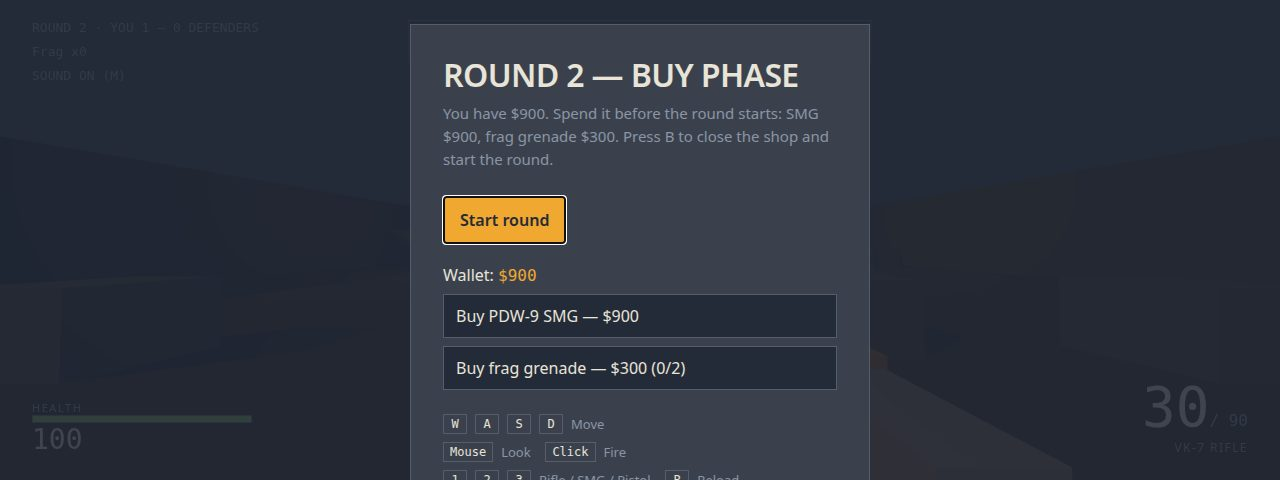
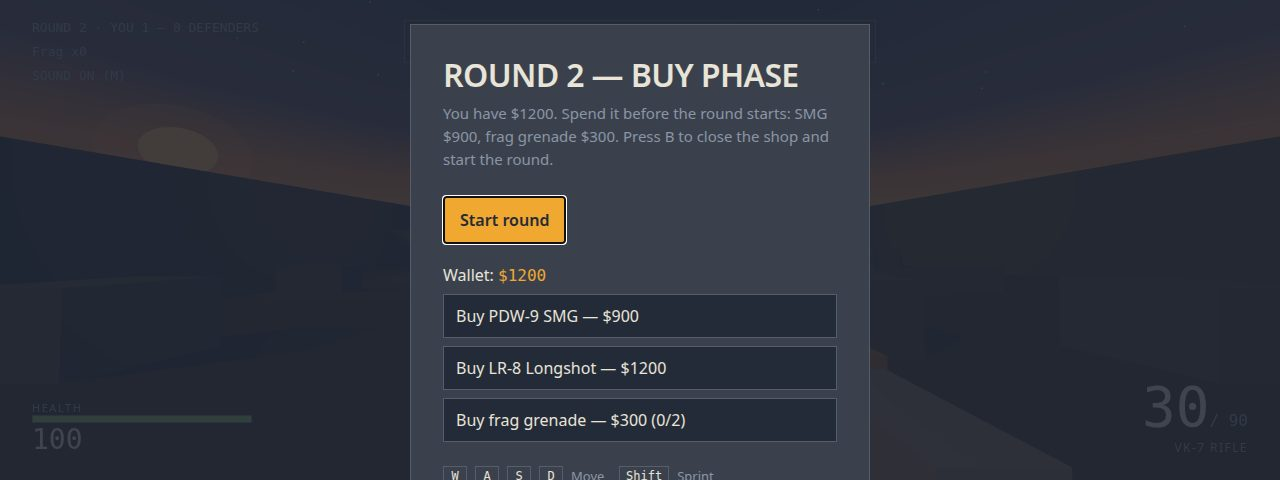
Relay Yard v3: sniper rifle, sprint, aim-down-sights, dusk sky, site labels
- LR-8 Longshot sniper ($1200, 5-round mag, one-shot headshot, 100 m
  range): a real round-2 buy choice next to the $900 SMG and $300 frag
- Sprint (Shift, x1.35 forward) and aim down sights (right-click: FOV
  74 -> 55, steadier look, spread x0.35, slower walk)
- Dusk sky dome with a sunset band, stars and a low sun over the west
  wall; floating A/B site labels readable from anywhere in the yard
- Extra cover: rust barrels and sandbag rows on the mid-north approach
- Screenshots redone: sunset cover, buy menu shows the Longshot, keys
  list names sprint / aim / the fourth weapon slot

diff --git a/game/src/world.js b/game/src/world.js
@@ -5,6 +5,7 @@
 // the bots, and a surface a bullet stops on. Plain geometry only.
 import * as THREE from 'three';
 import { PALETTE } from './palette.js';
+import { mulberry32 } from './random.js';
 
 const YARD_X = 20;
 const YARD_Z = 17;
@@ -138,6 +139,108 @@ export function createWorld(scene) {
   // A raised platform on the south wall, overlooking mid.
   box(6, 0.5, 2.6, 0, 0.25, 14.6, 'concrete');
 
+  // The sky: a dusk gradient dome with stars and a low sun, so the yard reads
+  // as a place at sunset instead of a grey box. The dome follows nothing; it
+  // is far enough (radius 140) that the player never reaches its edge.
+  const skyCanvas = document.createElement('canvas');
+  skyCanvas.width = 16;
+  skyCanvas.height = 512;
+  const skyCtx = skyCanvas.getContext('2d');
+  const gradient = skyCtx.createLinearGradient(0, 0, 0, 512);
+  // The bright band sits just above the wall tops (canvas y ~225), so the
+  // sunset glow is visible from inside the yard instead of hiding below it.
+  gradient.addColorStop(0, '#0a1220');
+  gradient.addColorStop(0.3, '#1d2740');
+  gradient.addColorStop(0.4, '#4a3a4a');
+  gradient.addColorStop(0.44, '#c96a2e');
+  gradient.addColorStop(0.48, '#e8953f');
+  gradient.addColorStop(0.52, '#7a4326');
+  gradient.addColorStop(0.6, '#2a1a12');
+  gradient.addColorStop(1, '#1a120c');
+  skyCtx.fillStyle = gradient;
+  skyCtx.fillRect(0, 0, 16, 512);
+  const skyTexture = new THREE.CanvasTexture(skyCanvas);
+  skyTexture.colorSpace = THREE.SRGBColorSpace;
+  const dome = new THREE.Mesh(
+    new THREE.SphereGeometry(140, 24, 16),
+    new THREE.MeshBasicMaterial({ map: skyTexture, side: THREE.BackSide, fog: false }),
+  );
+  group.add(dome);
+
+  // Stars over the dark half of the sky. Fixed seed, so the sky is identical
+  // on every load.
+  const starRandom = mulberry32(20261117);
+  const starCount = 260;
+  const starPositions = new Float32Array(starCount * 3);
+  for (let i = 0; i < starCount; i += 1) {
+    const theta = starRandom() * Math.PI * 2;
+    const phi = starRandom() * Math.PI * 0.42;
+    const r = 130;
+    starPositions[i * 3] = r * Math.sin(phi) * Math.cos(theta);
+    starPositions[i * 3 + 1] = r * Math.cos(phi) + 8;
+    starPositions[i * 3 + 2] = r * Math.sin(phi) * Math.sin(theta);
+  }
+  const starGeometry = new THREE.BufferGeometry();
+  starGeometry.setAttribute('position', new THREE.BufferAttribute(starPositions, 3));
+  const stars = new THREE.Points(starGeometry, new THREE.PointsMaterial({
+    color: new THREE.Color('#dfe8ff'), size: 1.4, sizeAttenuation: false, fog: false, transparent: true, opacity: 0.85,
+  }));
+  group.add(stars);
+
+  // A low sun disc in the west-north, where the amber light comes from, with
+  // a halo — high enough to clear the west wall from inside the yard.
+  const sunDisc = new THREE.Mesh(
+    new THREE.CircleGeometry(5, 24),
+    new THREE.MeshBasicMaterial({ color: new THREE.Color('#ffb347'), fog: false }),
+  );
+  sunDisc.position.set(-100, 22, -55);
+  sunDisc.lookAt(0, 1.6, 0);
+  group.add(sunDisc);
+  const sunHalo = new THREE.Mesh(
+    new THREE.CircleGeometry(10, 24),
+    new THREE.MeshBasicMaterial({ color: new THREE.Color('#ff8c2e'), fog: false, transparent: true, opacity: 0.22 }),
+  );
+  sunHalo.position.set(-101, 22, -56);
+  sunHalo.lookAt(0, 1.6, 0);
+  group.add(sunHalo);
+
+  // Floating site labels, readable from anywhere in the yard: the judge
+  // reads the map at a glance instead of guessing which site is which.
+  function makeSiteLabel(big, small, color) {
+    const canvas = document.createElement('canvas');
+    canvas.width = 512;
+    canvas.height = 128;
+    const ctx = canvas.getContext('2d');
+    ctx.fillStyle = 'rgba(8, 10, 16, 0.72)';
+    ctx.fillRect(8, 14, 496, 100);
+    ctx.fillStyle = color;
+    ctx.font = 'bold 58px system-ui, sans-serif';
+    ctx.textAlign = 'center';
+    ctx.textBaseline = 'alphabetic';
+    ctx.fillText(big, 256, 62);
+    ctx.fillStyle = '#e8e4da';
+    ctx.font = '30px system-ui, sans-serif';
+    ctx.fillText(small, 256, 100);
+    const tex = new THREE.CanvasTexture(canvas);
+    tex.colorSpace = THREE.SRGBColorSpace;
+    const sprite = new THREE.Sprite(new THREE.SpriteMaterial({ map: tex, transparent: true, depthWrite: false, fog: false }));
+    sprite.scale.set(7.5, 1.875, 1);
+    return sprite;
+  }
+  const labelA = makeSiteLabel('A', 'RELAY TOWER', '#ffb347');
+  labelA.position.set(-14, 6.4, -11);
+  group.add(labelA);
+  const labelB = makeSiteLabel('B', 'FUEL DEPOT', '#ff6b4a');
+  labelB.position.set(14, 6.4, -11);
+  group.add(labelB);
+
+  // Extra cover on the mid-north approach: two rust barrels and sandbag rows
+  // on the flanks, clear of every patrol waypoint.
+  cylinder(0.55, 0.55, 1.1, -2.5, 0.55, -8.5, 'rust');
+  cylinder(0.55, 0.55, 1.1, 2.8, 0.55, -8.8, 'rust');
+  box(2.2, 0.9, 0.8, -11, 0.45, 3, 'concrete');
+  box(2.2, 0.9, 0.8, 11, 0.45, 3, 'concrete');
+
   // Light: dusk sky, a low amber sun from the west, cool fill from the east,
   // and sodium lamps over both sites and mid.
   const sky = new THREE.HemisphereLight(new THREE.Color('#8b95a5'), new THREE.Color(PALETTE.dusk), 0.85);
@@ -174,7 +277,7 @@ export function createWorld(scene) {
     scene.add(bulb);
     const cap = new THREE.Mesh(
       new THREE.BoxGeometry(0.5, 0.18, 0.5),
-      materials.amber,
+      materials.steel,
     );
     cap.position.set(x, 4.6, z);
     group.add(cap);

diff --git a/game/src/main.js b/game/src/main.js
@@ -263,6 +263,7 @@ function showBuy() {
     round: roundsState.round,
     money: roundsState.money,
     ownedSmg: arsenal.owned.has('smg'),
+    ownedSniper: arsenal.owned.has('sniper'),
     frags: roundsState.frags,
   });
 }
@@ -352,6 +353,16 @@ hud.onBuySmg(() => {
   }
 });
 
+hud.onBuySniper(() => {
+  if (rounds.buySniper()) {
+    arsenal.buy('sniper');
+    arsenal.select('sniper');
+    sound.buy();
+    showBuy();
+    syncHud();
+  }
+});
+
 hud.onBuyFrag(() => {
   if (rounds.buyFrag()) {
     sound.buy();
@@ -409,16 +420,21 @@ function frame(now) {
   lastTime = now;
   if (!frozen) {
     const look = input.takeLook();
-    player.look(look.x, look.y);
+    // Aim down sights: steadier look, a tighter field of view and far less
+    // spread, at the cost of walking speed (see player.step).
+    body.aiming = input.state.aiming && roundsState.phase === 'live' && body.alive;
+    const lookScale = body.aiming ? 0.6 : 1;
+    player.look(look.x * lookScale, look.y * lookScale);
     if (roundsState.phase === 'live' && body.alive) {
       if (input.state.firing && arsenal.ready()) {
         const def = arsenal.def();
-        if (def.auto || input.pressed('MouseLeft')) shoot(shot ? 0 : arsenal.spread(player.groundSpeed()));
+        if (def.auto || input.pressed('MouseLeft')) shoot(shot ? 0 : arsenal.spread(player.groundSpeed()) * (body.aiming ? 0.35 : 1));
       }
       if (input.pressed('KeyR')) arsenal.reload();
       if (input.pressed('Digit1')) { arsenal.select('rifle'); syncHudAmmo(); }
       if (input.pressed('Digit2')) { arsenal.select('smg'); syncHudAmmo(); }
       if (input.pressed('Digit3')) { arsenal.select('pistol'); syncHudAmmo(); }
+      if (input.pressed('Digit4')) { arsenal.select('sniper'); syncHudAmmo(); }
       if (input.pressed('KeyG') && rounds.useFrag()) {
         camera.getWorldDirection(direction);
         origin.copy(camera.position);
@@ -436,6 +452,12 @@ function frame(now) {
       steps += 1;
     }
     if (accumulator > FIXED_STEP * 5) accumulator = 0;
+    // Aiming narrows the field of view smoothly; releasing it opens back up.
+    const targetFov = body.aiming ? 55 : 74;
+    if (Math.abs(camera.fov - targetFov) > 0.05) {
+      camera.fov += (targetFov - camera.fov) * Math.min(1, dt * 10);
+      camera.updateProjectionMatrix();
+    }
     syncCamera();
   }
   renderer.render(scene, camera);
@@ -486,13 +508,13 @@ function runShot(name) {
   } else if (name === 'buy') {
     roundsState.round = 2;
     roundsState.playerWins = 1;
-    roundsState.money = 900;
+    roundsState.money = 1200;
     roundsState.frags = 0;
     roundsState.timer = 100;
     body.position.set(0, 0, 14);
     settle(10);
     aimAt(new THREE.Vector3(0, 2, -11));
-    hud.showOverlay('buy', { round: 2, money: 900, ownedSmg: false, frags: 0 });
+    hud.showOverlay('buy', { round: 2, money: 1200, ownedSmg: false, ownedSniper: false, frags: 0 });
     syncHud();
   } else if (name === 'bomb') {
     roundsState.round = 2;

diff --git a/game/src/weapons.js b/game/src/weapons.js
@@ -22,6 +22,11 @@ export const WEAPONS = {
     mag: 12, reserve: 36, gap: 0.24, reload: 1.3, damage: 45, headDamage: 100,
     spreadStill: 0.003, spreadMove: 0.02, auto: false, kick: 0.07, range: 45,
   },
+  sniper: {
+    id: 'sniper', name: 'LR-8 Longshot', key: 'Digit4', price: 1200,
+    mag: 5, reserve: 15, gap: 1.1, reload: 2.6, damage: 90, headDamage: 200,
+    spreadStill: 0.0008, spreadMove: 0.03, auto: false, kick: 0.12, range: 100,
+  },
 };
 
 const MUZZLE_TIME = 0.06;
@@ -39,6 +44,20 @@ function buildViewModel(def) {
     sight.position.set(0, 0.05, -0.12);
     model.add(slide, handle, sight);
     model.position.set(0.2, -0.22, -0.38);
+  } else if (def.id === 'sniper') {
+    // Longshot: a long thin barrel, a scope tube on top, a short stock.
+    const receiver = new THREE.Mesh(new THREE.BoxGeometry(0.08, 0.09, 0.34), body);
+    const barrel = new THREE.Mesh(new THREE.BoxGeometry(0.035, 0.035, 0.62), grip);
+    barrel.position.set(0, 0.02, -0.44);
+    const scope = new THREE.Mesh(new THREE.CylinderGeometry(0.035, 0.035, 0.22, 12), grip);
+    scope.rotation.x = Math.PI / 2;
+    scope.position.set(0, 0.085, -0.05);
+    const stock = new THREE.Mesh(new THREE.BoxGeometry(0.07, 0.08, 0.2), grip);
+    stock.position.set(0, -0.02, 0.26);
+    const stripe = new THREE.Mesh(new THREE.BoxGeometry(0.085, 0.02, 0.16), accent);
+    stripe.position.set(0, 0.05, -0.02);
+    model.add(receiver, barrel, scope, stock, stripe);
+    model.position.set(0.24, -0.2, -0.42);
   } else {
     const receiver = new THREE.Mesh(new THREE.BoxGeometry(0.09, 0.1, 0.42), body);
     const barrel = new THREE.Mesh(new THREE.BoxGeometry(0.045, 0.045, def.id === 'smg' ? 0.24 : 0.4), grip);

diff --git a/game/src/player.js b/game/src/player.js
@@ -9,6 +9,8 @@ const CROUCH_HEIGHT = 1.12;
 const STAND_EYE = 1.6;
 const CROUCH_EYE = 1.02;
 const WALK_SPEED = 5.4;
+const SPRINT_MULTIPLIER = 1.35;
+const AIM_SPEED_MULTIPLIER = 0.6;
 const CROUCH_SPEED = 2.5;
 const GROUND_ACCEL = 46;
 const AIR_ACCEL = 10;
@@ -28,6 +30,8 @@ export function createPlayer(colliders, spawn) {
     height: STAND_HEIGHT,
     health: 100,
     alive: true,
+    sprinting: false,
+    aiming: false,
   };
   const probe = new THREE.Box3();
   const wish = new THREE.Vector3();
@@ -74,7 +78,13 @@ export function createPlayer(colliders, spawn) {
       wish.set(-sin * forward + cos * strafe, 0, -cos * forward - sin * strafe).normalize();
     }
 
-    const speed = body.crouching ? CROUCH_SPEED : WALK_SPEED;
+    // Sprint: hold Shift while running forward, not crouched and not aiming.
+    // Aiming down sights slows the player to a careful walk.
+    const sprinting = (keys.has('ShiftLeft') || keys.has('ShiftRight')) && forward > 0 && !body.crouching && !body.aiming;
+    body.sprinting = sprinting;
+    const speed = body.crouching
+      ? CROUCH_SPEED
+      : WALK_SPEED * (sprinting ? SPRINT_MULTIPLIER : 1) * (body.aiming ? AIM_SPEED_MULTIPLIER : 1);
     const blend = Math.min(1, (body.onGround ? GROUND_ACCEL : AIR_ACCEL) * dt / speed);
     body.velocity.x += (wish.x * speed - body.velocity.x) * blend;
     body.velocity.z += (wish.z * speed - body.velocity.z) * blend;
@@ -126,6 +136,8 @@ export function createPlayer(colliders, spawn) {
     body.alive = true;
     body.crouching = false;
     body.height = STAND_HEIGHT;
+    body.sprinting = false;
+    body.aiming = false;
   }
 
   return {

diff --git a/game/src/input.js b/game/src/input.js
@@ -4,7 +4,7 @@
 export function createInput(canvas, onLockChange) {
   const keys = new Set();
   const pressedKeys = new Set();
-  const state = { keys, locked: false, firing: false, lookX: 0, lookY: 0 };
+  const state = { keys, locked: false, firing: false, aiming: false, lookX: 0, lookY: 0 };
 
   function setKey(event, down) {
     if (down) {
@@ -32,18 +32,23 @@ export function createInput(canvas, onLockChange) {
       state.firing = true;
       pressedKeys.add('MouseLeft');
     }
+    if (state.locked && event.button === 2) state.aiming = true;
   });
   window.addEventListener('mouseup', (event) => {
     if (event.button === 0) {
       state.firing = false;
       pressedKeys.delete('MouseLeft');
     }
+    if (event.button === 2) state.aiming = false;
   });
+  // Right-click aims down sights; never let the browser menu open over the game.
+  canvas.addEventListener('contextmenu', (event) => event.preventDefault());
   document.addEventListener('pointerlockchange', () => {
     state.locked = document.pointerLockElement === canvas;
     if (!state.locked) {
       keys.clear();
       state.firing = false;
+      state.aiming = false;
     }
     onLockChange(state.locked);
   });

diff --git a/game/index.html b/game/index.html
@@ -147,12 +147,13 @@
     <div id="buy-panel" hidden>
       <div>Wallet: <span id="buy-money">$800</span></div>
       <button id="buy-smg" type="button">Buy PDW-9 SMG — $900</button>
+      <button id="buy-sniper" type="button">Buy LR-8 Longshot — $1200</button>
       <button id="buy-frag" type="button">Buy frag grenade — $300 (0/2)</button>
     </div>
     <ul class="keys">
-      <li><kbd>W</kbd><kbd>A</kbd><kbd>S</kbd><kbd>D</kbd> Move</li>
-      <li><kbd>Mouse</kbd> Look &nbsp; <kbd>Click</kbd> Fire</li>
-      <li><kbd>1</kbd><kbd>2</kbd><kbd>3</kbd> Rifle / SMG / Pistol &nbsp; <kbd>R</kbd> Reload</li>
+      <li><kbd>W</kbd><kbd>A</kbd><kbd>S</kbd><kbd>D</kbd> Move &nbsp; <kbd>Shift</kbd> Sprint</li>
+      <li><kbd>Mouse</kbd> Look &nbsp; <kbd>Click</kbd> Fire &nbsp; <kbd>Right-click</kbd> Aim</li>
+      <li><kbd>1</kbd><kbd>2</kbd><kbd>3</kbd><kbd>4</kbd> Rifle / SMG / Pistol / Sniper &nbsp; <kbd>R</kbd> Reload</li>
       <li><kbd>E</kbd> Plant charge (hold, at a site) &nbsp; <kbd>G</kbd> Throw frag</li>
       <li><kbd>B</kbd> Buy menu &nbsp; <kbd>Ctrl</kbd> Crouch &nbsp; <kbd>Space</kbd> Jump &nbsp; <kbd>M</kbd> Sound on/off</li>
     </ul>

diff --git a/game/src/hud.js b/game/src/hud.js
@@ -155,6 +155,8 @@ export function createHud() {
         el('buy-money').textContent = `$${data.money}`;
         el('buy-smg').disabled = data.ownedSmg || data.money < 900;
         el('buy-smg').textContent = data.ownedSmg ? 'PDW-9 SMG — OWNED' : 'Buy PDW-9 SMG — $900';
+        el('buy-sniper').disabled = data.ownedSniper || data.money < 1200;
+        el('buy-sniper').textContent = data.ownedSniper ? 'LR-8 Longshot — OWNED' : 'Buy LR-8 Longshot — $1200';
         el('buy-frag').disabled = data.money < 300 || data.frags >= 2;
         el('buy-frag').textContent = `Buy frag grenade — $300 (${data.frags}/2)`;
       } else if (mode === 'round') {
@@ -183,6 +185,9 @@ export function createHud() {
     },
     onBuySmg(handler) {
       el('buy-smg').addEventListener('click', handler);
+    },
+    onBuySniper(handler) {
+      el('buy-sniper').addEventListener('click', handler);
     },
     onBuyFrag(handler) {
       el('buy-frag').addEventListener('click', handler);

diff --git a/game/src/rounds.js b/game/src/rounds.js
@@ -7,7 +7,7 @@ export const ROUND_TIME = 100;
 export const ROUNDS_TO_WIN = 3;
 export const MAX_ROUNDS = 5;
 
-export const PRICES = { smg: 900, frag: 300 };
+export const PRICES = { smg: 900, sniper: 1200, frag: 300 };
 
 export function createRounds() {
   const state = {
@@ -78,6 +78,11 @@ export function createRounds() {
     buySmg() {
       if (state.money < PRICES.smg) return false;
       state.money -= PRICES.smg;
+      return true;
+    },
+    buySniper() {
+      if (state.money < PRICES.sniper) return false;
+      state.money -= PRICES.sniper;
       return true;
     },
     useFrag() {

diff --git a/game/src/sound.js b/game/src/sound.js
@@ -71,7 +71,7 @@ export function createSoundEffects() {
     }
   }
 
-  const PITCH = { rifle: 190, smg: 240, pistol: 140 };
+  const PITCH = { rifle: 190, smg: 240, pistol: 140, sniper: 120 };
 
   return {
     unlock,

diff --git a/README.md b/README.md
@@ -4,7 +4,7 @@
 [![rank](https://make.fun/badge/best-game-01/oktamind/threejs-tactical-fps/rank.svg)](https://make.fun/bounty/best-game-01/leaderboard?utm_source=github&utm_medium=readme&utm_campaign=best-game-01)
 [![reward](https://make.fun/badge/best-game-01/oktamind/threejs-tactical-fps/reward.svg)](https://make.fun/bounty/best-game-01?utm_source=github&utm_medium=readme&utm_campaign=best-game-01)
 
-Relay Yard: a round-based tactical FPS in three.js. Plant the charge at site A or B, or eliminate all four defenders, before the clock runs out — with a buy menu, three weapons, frag grenades, and three defender types (patrolling Defenders, rushing Rushers, long-range Marksmen) that patrol, hear gunfire, converge to defuse, and get tougher every round. Synthesised WebAudio sound, muzzle flash, tracers, screen shake, a sweeping radar dish over the yard, and a match-results screen with a round-by-round history.
+Relay Yard: a round-based tactical FPS in three.js. Plant the charge at site A or B, or eliminate all four defenders, before the clock runs out — with a buy menu, four weapons (rifle, SMG, pistol and a one-shot-headshot sniper), frag grenades, sprint and aim-down-sights, and three defender types (patrolling Defenders, rushing Rushers, long-range Marksmen) that patrol, hear gunfire, converge to defuse, and get tougher every round. Synthesised WebAudio sound, muzzle flash, tracers, screen shake, a dusk sky with stars and a low sun, floating site labels, a sweeping radar dish over the yard, and a match-results screen with a round-by-round history.
 
 ## Run it
 
